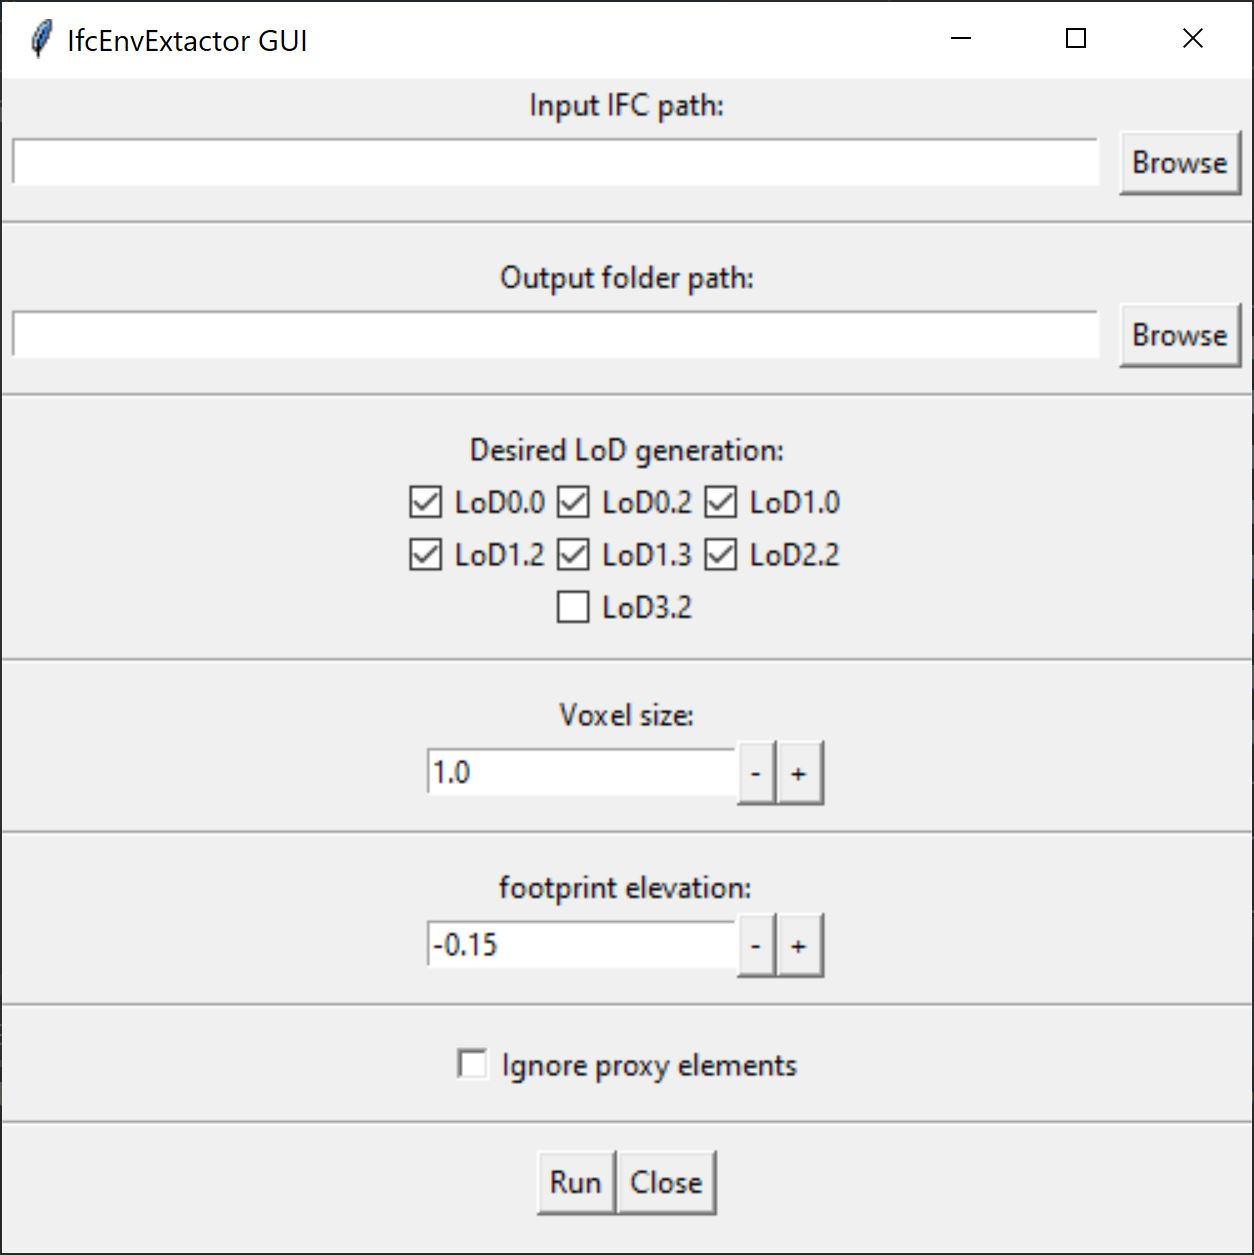
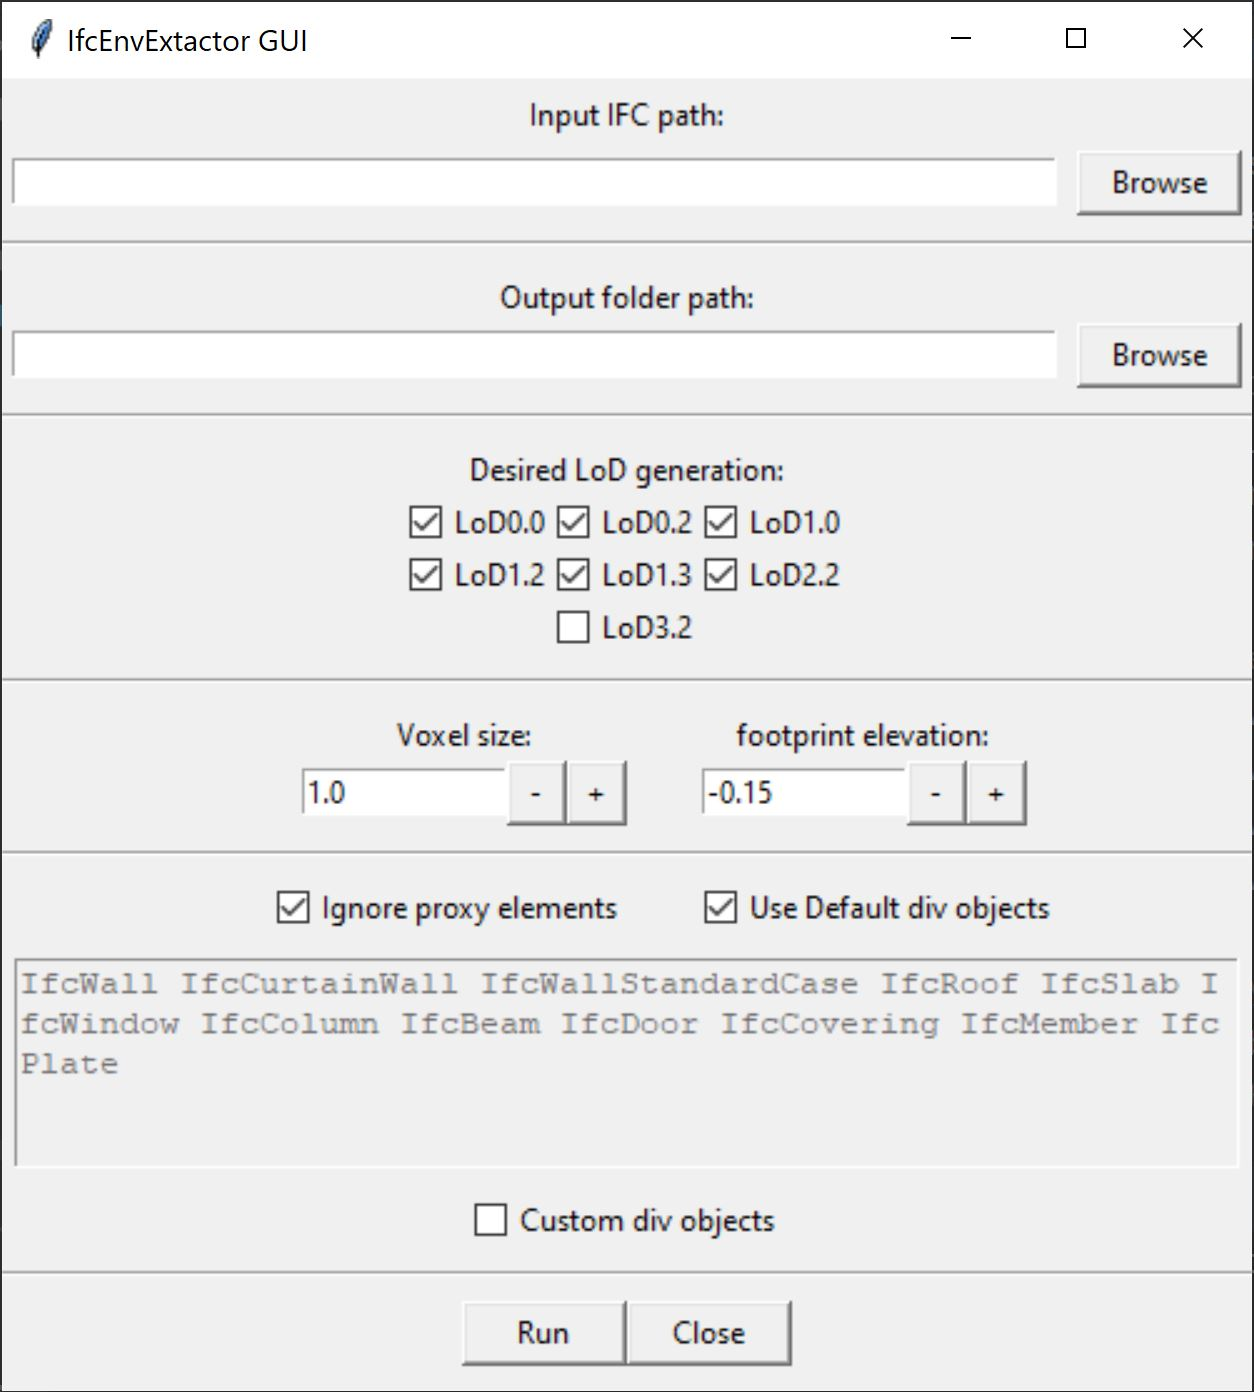
Updated GUI to fade unused variables, updated Readme

diff --git a/GUI_code/Ext_GUI.py b/GUI_code/Ext_GUI.py
@@ -27,6 +27,14 @@ def toggleEnableDiv(widget, default_toggle, proxy_toggle, default_bool, proxy_bo
 
     return
 
+def toggleEnableEntry(entry_widget, additional_bool_list):
+    for additional_bool in additional_bool_list:
+        if  additional_bool:
+            entry_widget['state'] = tkinter.NORMAL
+            return
+    entry_widget['state'] = tkinter.DISABLED
+    return
+
 def runCode(input_path,
             output_path,
             make_lod00,
@@ -287,7 +295,13 @@ frame_lod_settings3.pack()
 bool_lod00 = tkinter.IntVar(value=1)
 toggle_makelod00 = ttk.Checkbutton(frame_lod_settings1, text="LoD0.0", variable=bool_lod00)
 bool_lod02 = tkinter.IntVar(value=1)
-toggle_makelod02 = ttk.Checkbutton(frame_lod_settings1, text="LoD0.2", variable=bool_lod02)
+toggle_makelod02 = ttk.Checkbutton(frame_lod_settings1,
+                                   text="LoD0.2",
+                                   variable=bool_lod02,
+                                   command= lambda : [toggleEnableEntry(entry_footprint, {bool_lod02.get()}),
+                                                      toggleEnableEntry(entry_voxelsize, [bool_lod02.get(),
+                                                                                          bool_lod32.get()])]
+                                   )
 bool_lod10 = tkinter.IntVar(value=1)
 toggle_makelod10 = ttk.Checkbutton(frame_lod_settings1, text="LoD1.0", variable=bool_lod10)
 bool_lod12 = tkinter.IntVar(value=1)
@@ -297,7 +311,12 @@ toggle_makelod13 = ttk.Checkbutton(frame_lod_settings2, text="LoD1.3", variable=
 bool_lod22 = tkinter.IntVar(value=1)
 toggle_makelod22 = ttk.Checkbutton(frame_lod_settings2, text="LoD2.2", variable=bool_lod22)
 bool_lod32 = tkinter.IntVar(value=0)
-toggle_makelod32 = ttk.Checkbutton(frame_lod_settings3, text="LoD3.2", variable=bool_lod32)
+toggle_makelod32 = ttk.Checkbutton(frame_lod_settings3,
+                                   text="LoD3.2",
+                                   variable=bool_lod32,
+                                   command= lambda : toggleEnableEntry(entry_voxelsize, [bool_lod02.get(),
+                                                                                          bool_lod32.get()])
+                                   )
 
 toggle_makelod00.pack(side=tkinter.LEFT)
 toggle_makelod02.pack(side=tkinter.LEFT)

diff --git a/README.md b/README.md
@@ -95,7 +95,7 @@ Currently the GUI is still in an initial development state and does not expose a
 
 The settings json has a very simple structure. An example can be found below:
 
-```
+```json
 {
     "Filepaths": {
         "Input" : 
@@ -111,7 +111,9 @@ The settings json has a very simple structure. An example can be found below:
     "Footprint elevation" : 0.15,
     "Output report" : 1,
     "LoD output" : [0.0, 0.2, 1.0, 1.2, 1.3, 2.2, 3.2],
-    "Ignore Proxy" : 1
+    "Default div": 1,
+    "Ignore proxy" : 1,
+    "Div objects": ["IfcFlowTerminal"]
 }
 ```
 
@@ -127,8 +129,10 @@ Optional:
 * "voxelSize""xy" is a double that will be used for the extraction process. A value between 0.5 and 1 often suffices for normal buildings. Default value = 0.5.
 * "Footprint elevation" is a double that will be the level at which a horizontal section will be taken of the building. This section is used to create the footprint from. Default value = 0.
 * "Output report" is an int/bool (either 0 or 1) to set the tool to output a report file or not. 0 = no, 1 = yes. Default value = true.
-* "LoD output" is an array including the desired LoD output. The options are 0.0, 0.2, 1.0, 1.2, 1.3, 2.2 and 3.2. Default value: 0.0, 0.2, 1.0, 1.2, 1.3, 2.2, 3.2
-* "Ignore Proxy" is an int/bool (either 0 or 1) tell the tool to use IfcBuildingElementProxy as a space dividing object class. 0 = no, 1 = yes. Default value: yes
+* "LoD output" is an array including the desired LoD output. The options are 0.0, 0.2, 1.0, 1.2, 1.3, 2.2 and 3.2. Default value: 0.0, 0.2, 1.0, 1.2, 1.3, 2.2, 3.2.
+* "Default div" is an int/bool (either 0 or 1) to set if the default space bounding objects are used. Default value = true.
+* "Ignore proxy" is an int/bool (either 0 or 1) tell the tool to use IfcBuildingElementProxy as a space dividing object class. 0 = no, 1 = yes. Default value: yes
+* "Div Objects" is an array including the additional space dividing objects (the Ifc types). Default value = emptry
 
 more options will be added in the future
 
